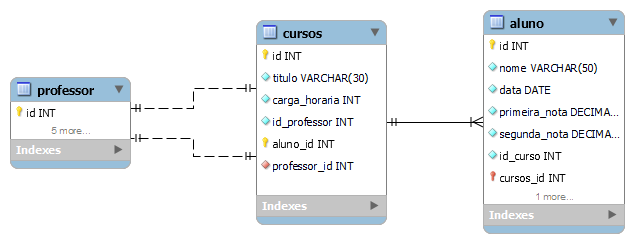
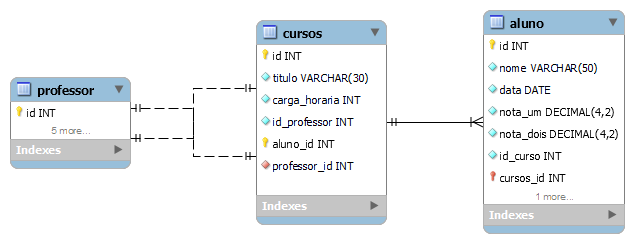
Exercicio completo

Changed region(s): [[0.7792, 0.4321, 0.989, 0.4897], [0.7792, 0.5185, 0.989, 0.5761], [0.2098, 0.5473, 0.2697, 0.5761]]

diff --git a/tecinternet_escola_seunome.md b/tecinternet_escola_seunome.md
@@ -32,8 +32,8 @@ CREATE TABLE alunos(
     id TINYINT NOT NULL PRIMARY KEY AUTO_INCREMENT,
     nome VARCHAR(50) NOT NULL,
     data_nascimento DATE NOT NULL,
-    primeira_nota DECIMAL(4,2),
-    segunda_nota DECIMAL(4,2),
+    nota_um DECIMAL(4,2),
+    nota_dois DECIMAL(4,2),
     curso_id TINYINT NOT NULL,
     CONSTRAINT fk_cursos FOREIGN KEY (curso_id)  REFERENCES cursos(id)
 );
@@ -91,7 +91,7 @@ INSERT INTO `professores` (`id`, `nome`, `area_atuacao`, `curso_id`) VALUES
 ## Adicionando Alunos
 
 ```SQL
-INSERT INTO `alunos` (`id`, `nome`, `data_nascimento`, `primeira_nota`, `segunda_nota`, `curso_id`) VALUES
+INSERT INTO `alunos` (`id`, `nome`, `data_nascimento`, `nota_um`, `nota_dois`, `curso_id`) VALUES
 (4, 'Maria Silva', '0000-00-00', 8.00, 9.00, 1),
 (5, 'Ana Santos', '0000-00-00', 7.00, 6.00, 2),
 (6, 'Sofia Rodrigues', '0000-00-00', 9.00, 10.00, 3),
@@ -122,7 +122,7 @@ INSERT INTO `alunos` (`id`, `nome`, `data_nascimento`, `primeira_nota`, `segunda
 ```SQL
 SELECT
     nome AS Nome,
-    CAST(((primeira_nota + segunda_nota) / 2) AS DEC(6, 2)) AS Média
+    CAST(((nota_um + nota_dois) / 2) AS DEC(6, 2)) AS Média
 FROM alunos;
 ```
 
@@ -200,7 +200,7 @@ ORDER BY Cursos DESC;
 ## 10 Consulta nome do aluno, suas notas, médias, do curso de Front e Back-end em ordem alfabética
 
 ```SQL
-SELECT alunos.nome AS Alunos, alunos.primeira_nota AS 'Primeira Nota', alunos.segunda_nota AS 'Segunda Nota', ROUND(AVG((alunos.primeira_nota + alunos.segunda_nota) / 2), 2) As 'Média dos Alunos',   cursos.titulo AS Cursos
+SELECT alunos.nome AS Alunos, alunos.nota_um AS 'Primeira Nota', alunos.nota_dois AS 'Segunda Nota', ROUND(AVG((alunos.nota_um + alunos.nota_dois) / 2), 2) As 'Média dos Alunos',   cursos.titulo AS Cursos
 FROM alunos INNER JOIN cursos
 ON alunos.curso_id = cursos.id
 WHERE cursos.titulo LIKE '%Front_End%' OR cursos.titulo LIKE '%Back_End%'

diff --git a/etapa-03.md b/etapa-03.md
@@ -14,7 +14,7 @@
 ```SQL
 SELECT
     nome AS Nome,
-    CAST(((primeira_nota + segunda_nota) / 2) AS DEC(6, 2)) AS Média
+    CAST(((nota_um + nota_dois) / 2) AS DEC(6, 2)) AS Média
 FROM alunos;
 ```
 
@@ -92,7 +92,7 @@ ORDER BY Cursos DESC;
 ## 10 Consulta nome do aluno, suas notas, médias, do curso de Front e Back-end em ordem alfabética
 
 ```SQL
-SELECT alunos.nome AS Alunos, alunos.primeira_nota AS 'Primeira Nota', alunos.segunda_nota AS 'Segunda Nota', ROUND(AVG((alunos.primeira_nota + alunos.segunda_nota) / 2), 2) As 'Média dos Alunos',   cursos.titulo AS Cursos
+SELECT alunos.nome AS Alunos, alunos.nota_um AS 'Primeira Nota', alunos.nota_dois AS 'Segunda Nota', ROUND(AVG((alunos.nota_um + alunos.nota_dois) / 2), 2) As 'Média dos Alunos',   cursos.titulo AS Cursos
 FROM alunos INNER JOIN cursos
 ON alunos.curso_id = cursos.id
 WHERE cursos.titulo LIKE '%Front_End%' OR cursos.titulo LIKE '%Back_End%'
